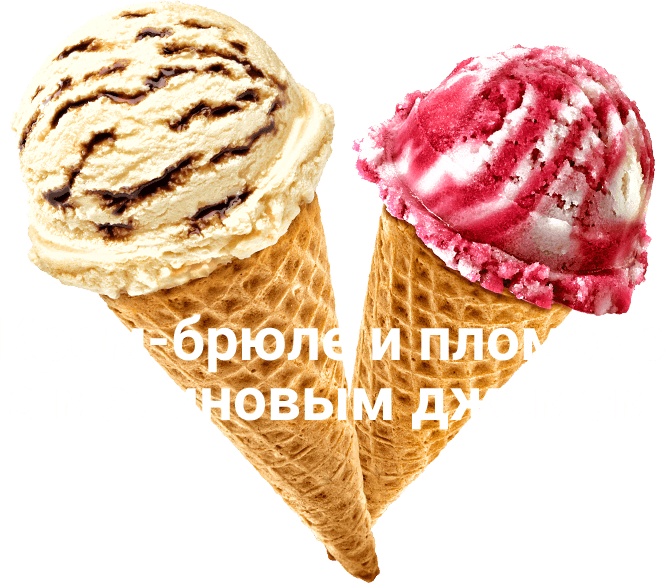
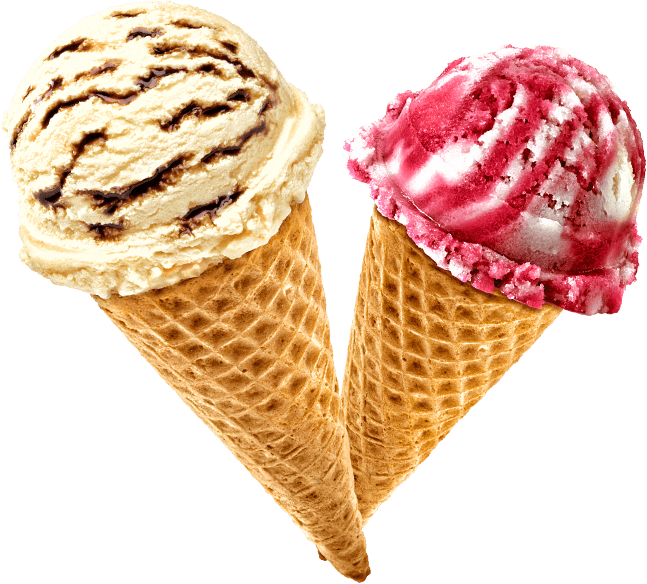
Замечания исправлены

diff --git a/index.html b/index.html
@@ -52,15 +52,15 @@
 
         <ul>
           <li>
-            <img src="img/ice-cream-1.png" width="665" height="584" alt="Крем брюле и пломбир с малиновым джемом">
+            <p>Крем-брюле и пломбир с малиновым джемом</p>
             <a href="#">Давайте оба!</a>
           </li>
           <li>
-            <img src="img/ice-cream-2.png" width="647" height="582" alt="Шоколадный пломбир и лимонный сорбет">
+            <p>Шоколадный пломбир и лимонный сорбет </p>
             <a href="#">Давайте оба!</a>
           </li>
           <li>
-            <img src="img/ice-cream-3.png" width="639" height="582" alt="Пломбир с помадкой и клубничный сорбет">
+            <p>Пломбир с помадкой и клубничный щербет</p>
             <a href="#">Давайте оба!</a>
           </li>
         </ul>
